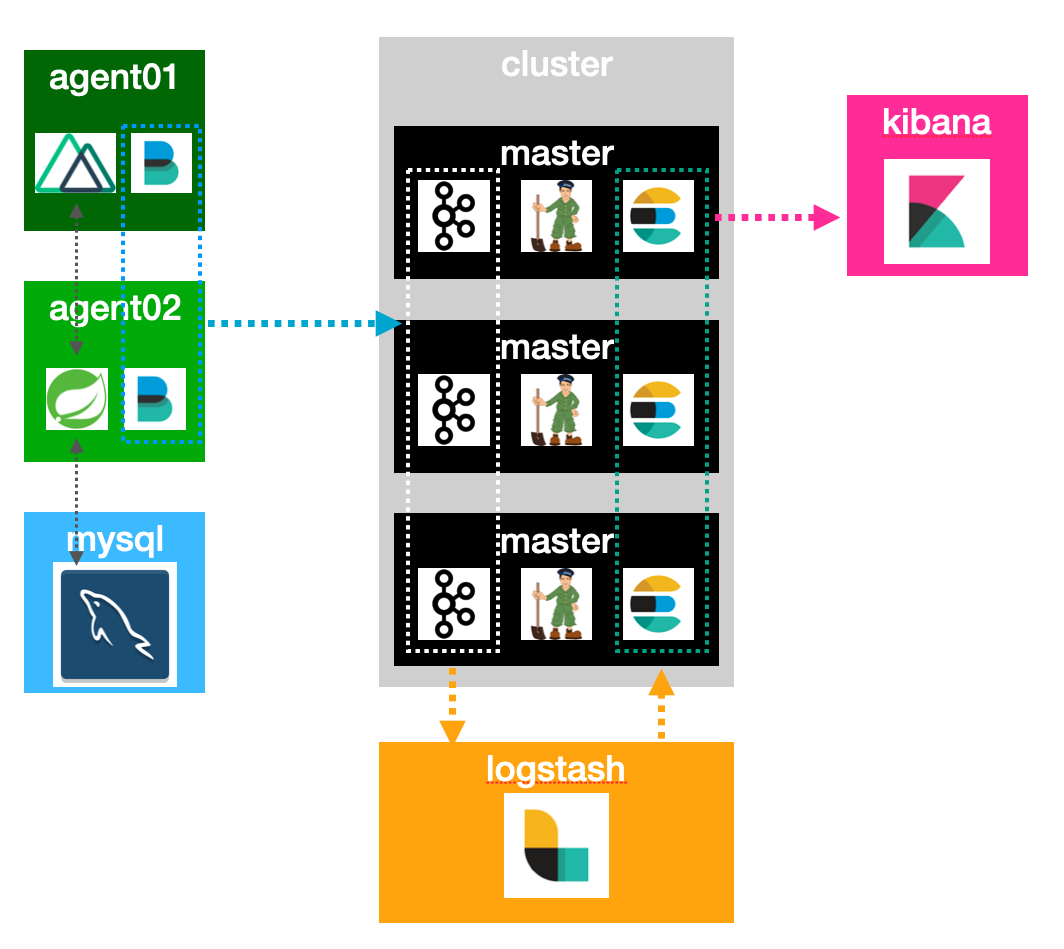
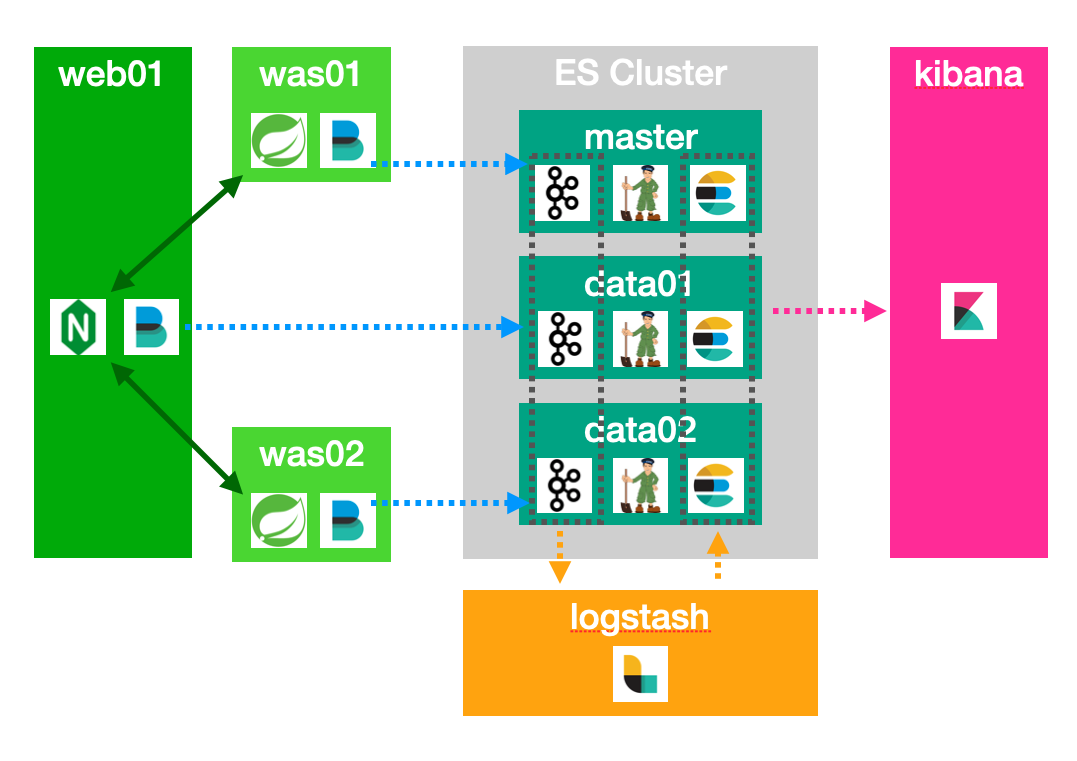
code: Update infra/lives/local/Vagrantfile 1. remove mysql 2. add web01(nginx) 3. update agent* -> was*

diff --git a/pompous-infra/lives/local/README.md b/pompous-infra/lives/local/README.md
@@ -49,7 +49,7 @@ agent01                   running (virtualbox)
 agent02                   running (virtualbox)
 logstash                  running (virtualbox)
 kibana                    running (virtualbox)
-mysql                     running (virtualbox)
+nginx                     running (virtualbox)
 
 This environment represents multiple VMs. The VMs are all listed
 above with their current state. For more information about a specific
@@ -60,10 +60,10 @@ VM, run `vagrant status NAME`.
 
 ```bash
 # vagrant status <머신 이름>
-$ vagrant status mysql
+$ vagrant status nginx
 Current machine states:
 
-mysql                     running (virtualbox)
+nginx                     running (virtualbox)
 
 The VM is running. To stop this VM, you can run `vagrant halt` to
 shut it down forcefully, or you can run `vagrant suspend` to simply
@@ -77,8 +77,8 @@ simply run `vagrant up`.
 
 ```bash
 # vagrant ssh <머신 이름>
-$ vagrant ssh mysql
-[vagrant@mysql ~]$ 
+$ vagrant ssh nginx
+[vagrant@nginx ~]$ 
 ```
 
 접속 해제하려면 `exit` 명령어를 입력해야 한다.
@@ -95,7 +95,7 @@ $ vagrant halt
 
 ```bash
 # vagrant halt <머신 이름>
-$ vagrant halt mysql
+$ vagrant halt nginx
 ```
 
 ### 인프라스트럭처 삭제
